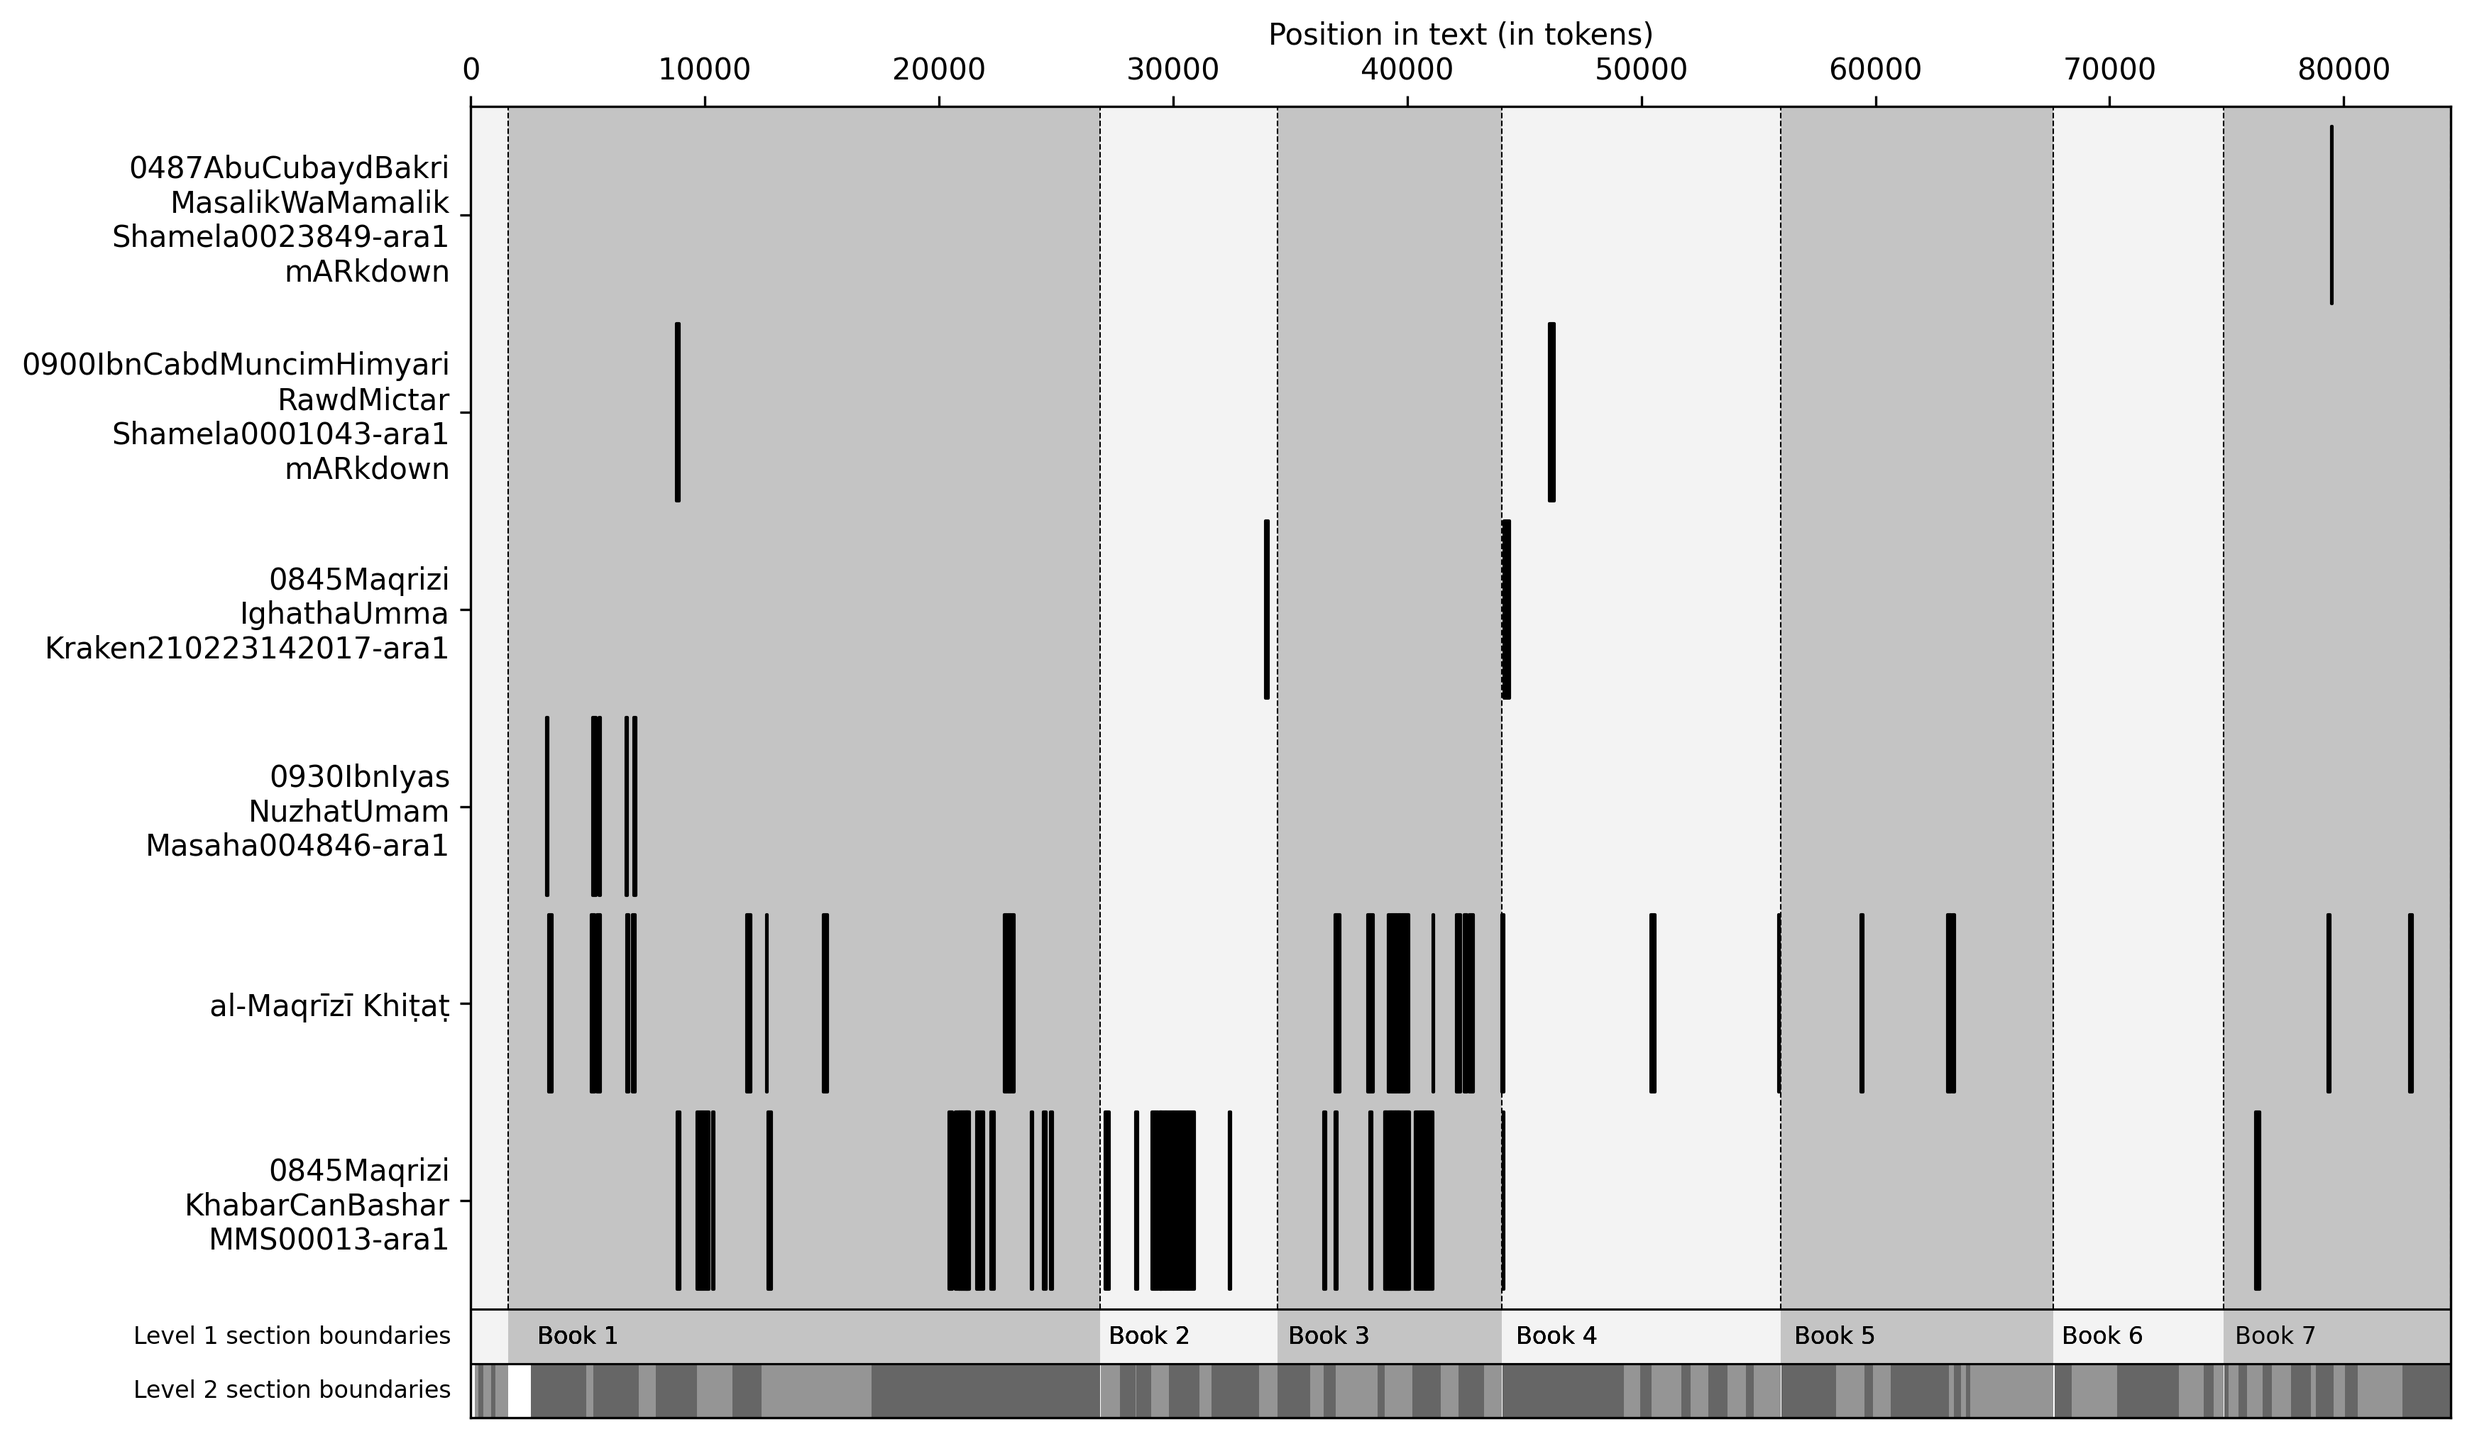
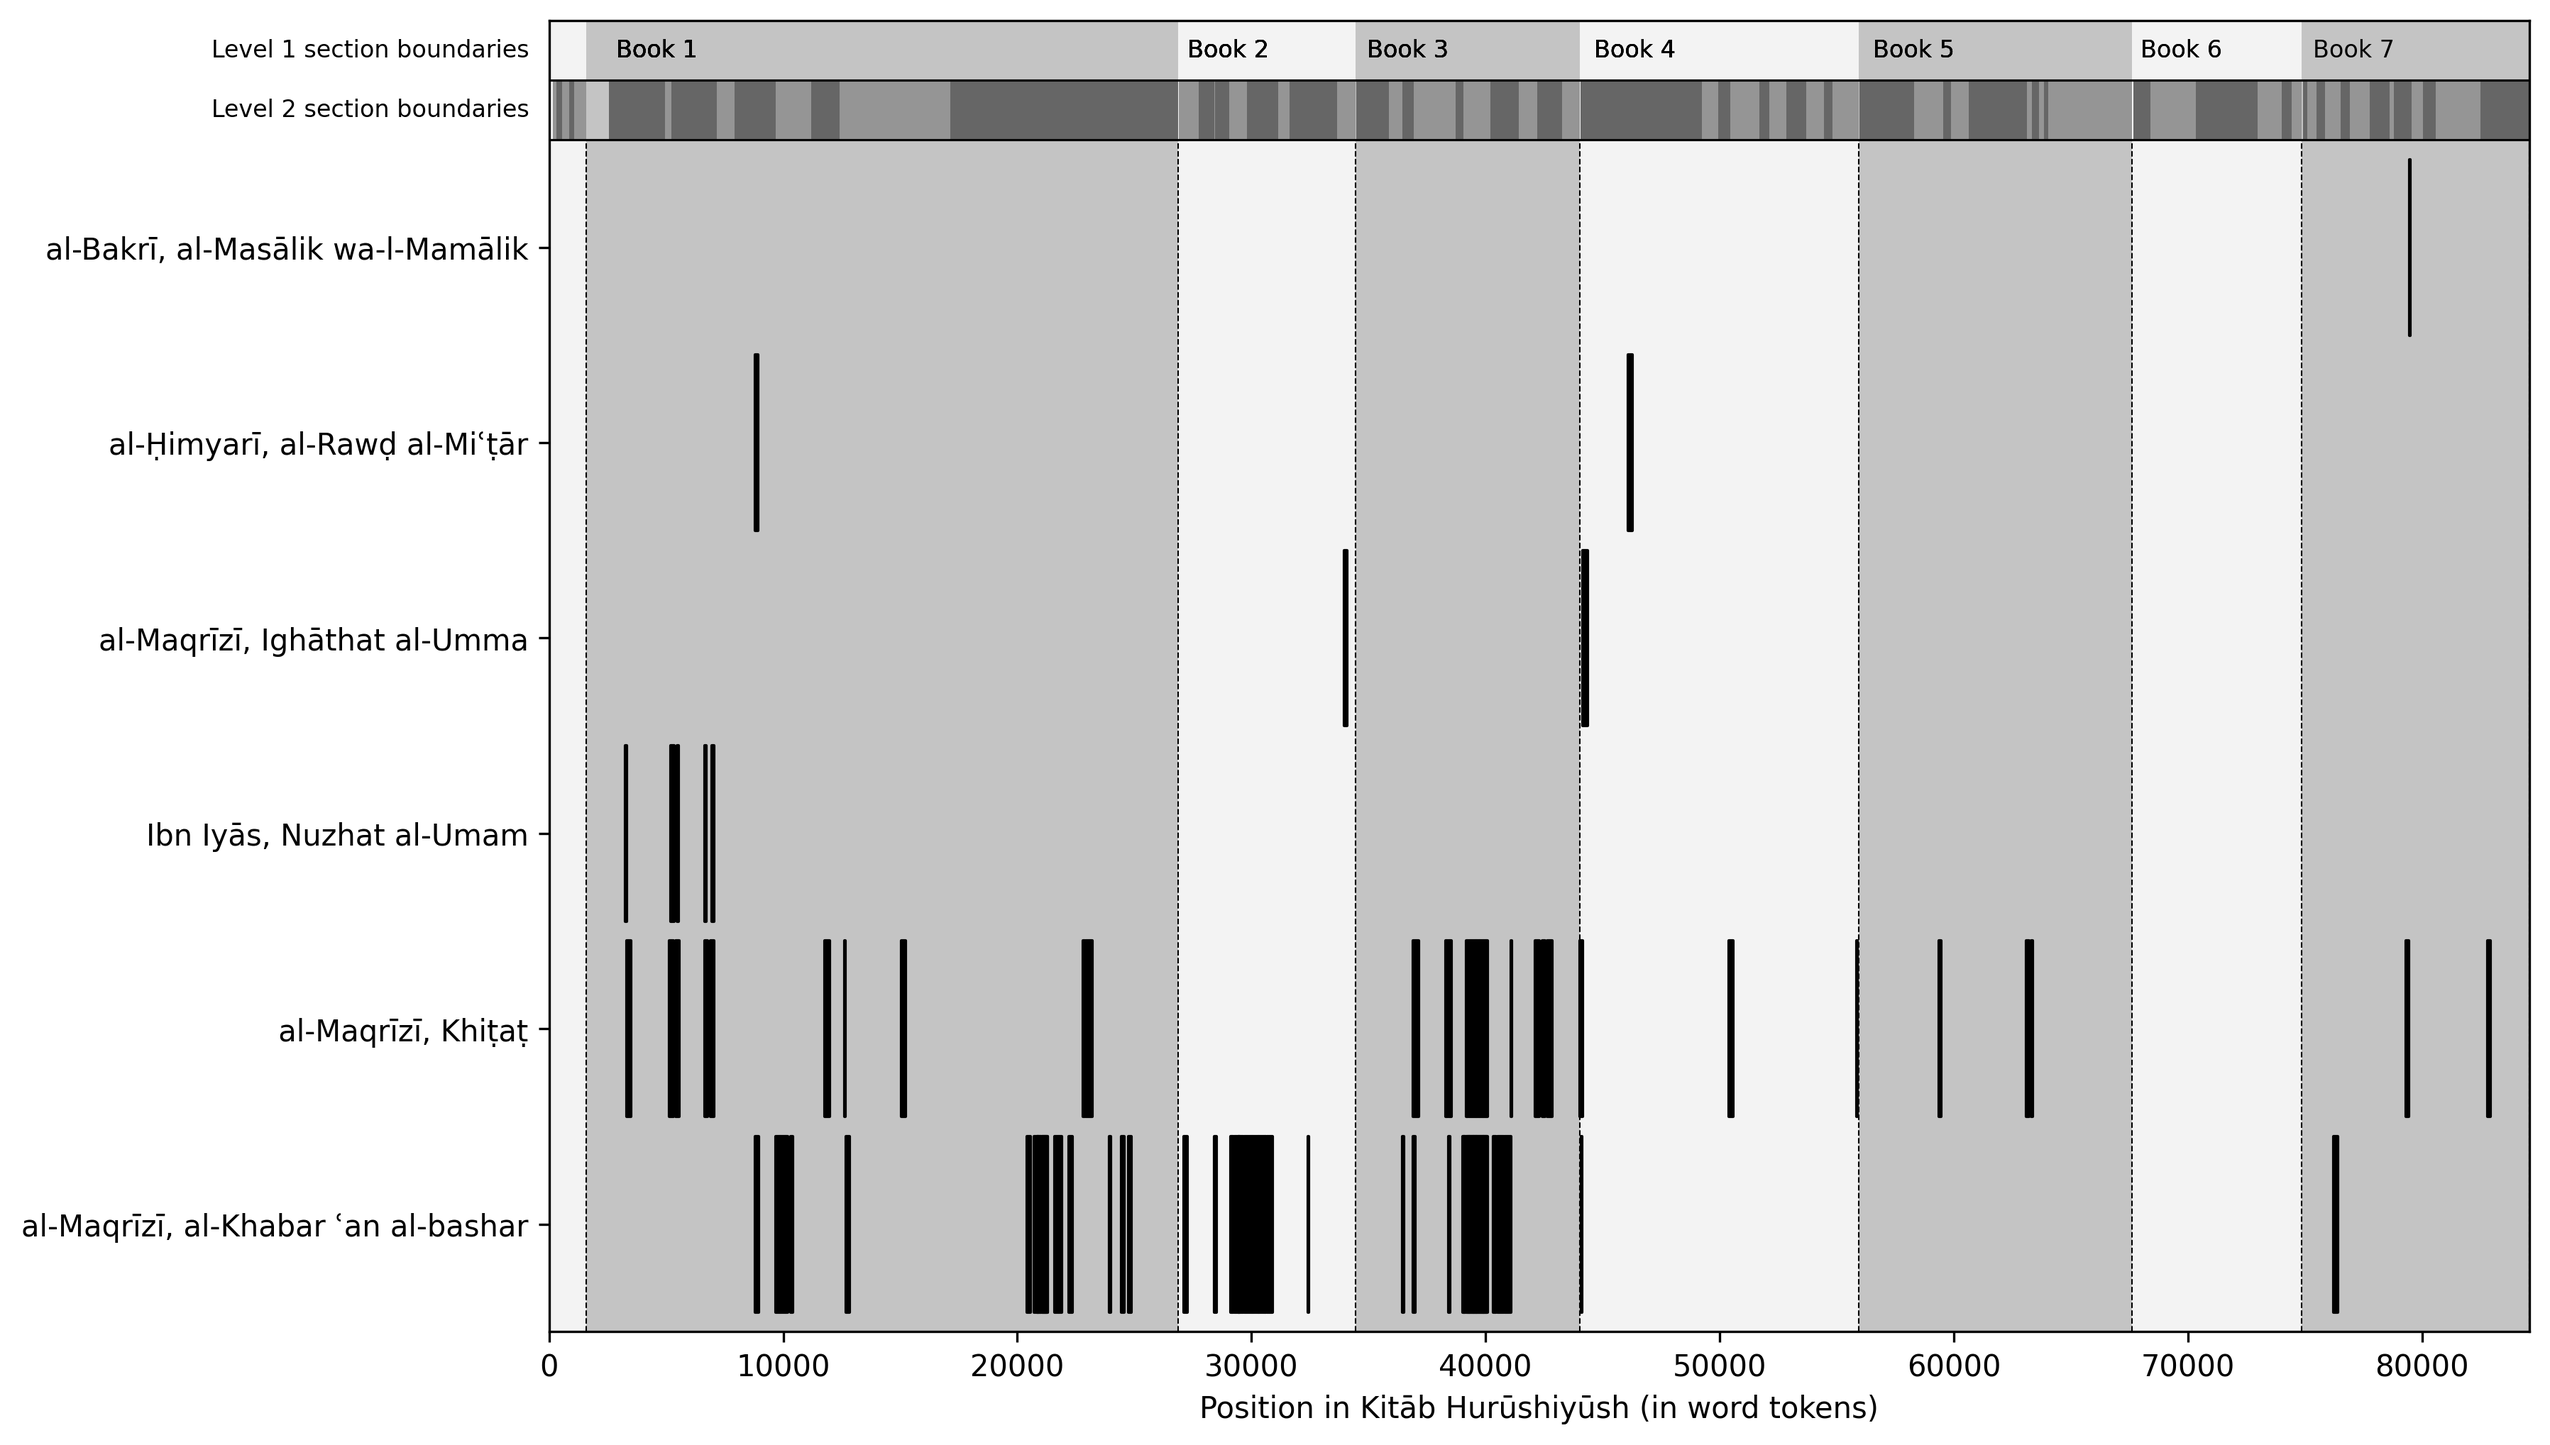
change labelling in meta_mapper for main_text

Changed region(s): [[0.0, 0.0, 0.9922, 0.9941], [0.6512, 0.6524, 0.6822, 0.7766], [0.093, 0.9009, 0.124, 0.932]]

diff --git a/pairwise_data/graph_pairwise.py b/pairwise_data/graph_pairwise.py
@@ -483,10 +483,13 @@ class multireuseGraph():
     def _set_xlabel(self):
         """Set the units in the xlabel if the metadata is available to determine the unit, overwise just use 'Position in text'"""
         meta_mapper = self.data_store["meta_mapper"]
-        x_label = "Position in text"
+        x_label = "Position in"
         if meta_mapper is not None:
             units_label = meta_mapper[meta_mapper["variable_name"] == "offset_units"]["label"].values.tolist()[0]
-            x_label = f"{x_label} (in {units_label})"
+            main_text = meta_mapper[meta_mapper["variable_name"] == "main_text"]["label"].values.tolist()[0]
+            x_label = f"{x_label} {main_text} (in {units_label})"
+        else:
+            x_label = f"{x_label} {text}"
         self.ax.set_xlabel(x_label)
 
 

diff --git a/pairwise_data/pairwise_mapping.py b/pairwise_data/pairwise_mapping.py
@@ -175,12 +175,16 @@ class pairwiseMapper():
 
         # Use the mapping_df to fetch all book ids
         book_ids = reuse_map["book2"].drop_duplicates().to_list()
-        book_ids += [main_uri]
+        # book_ids += [main_uri]
         for book_id in book_ids:
             meta_mapper.append({
                 col_1: book_id,
                 col_2: ""
             })
+        meta_mapper.append({
+            col_1: "main_text",
+            col_2: main_uri
+        })
         
         meta_map_df = pd.DataFrame(meta_mapper)
         csv_path = os.path.join(out_dir, "meta_mapper.csv")
